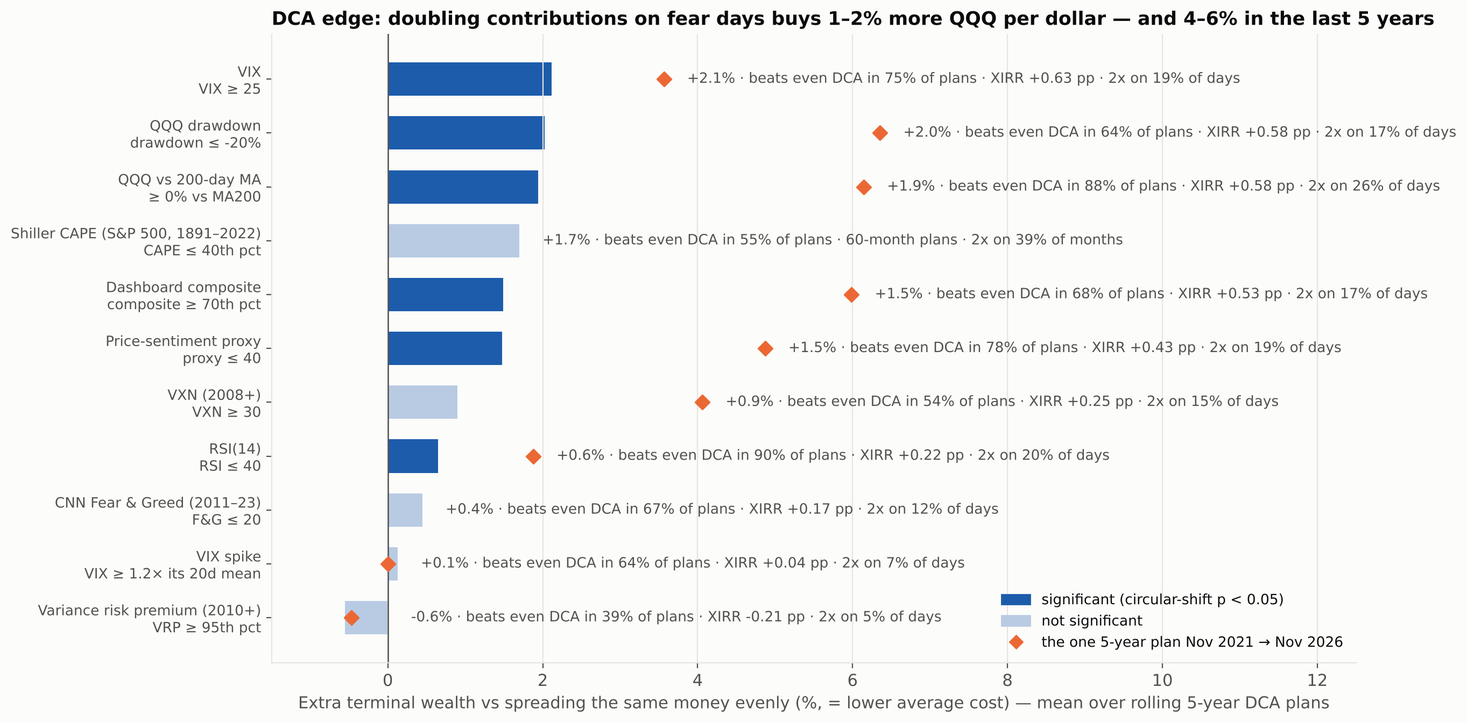
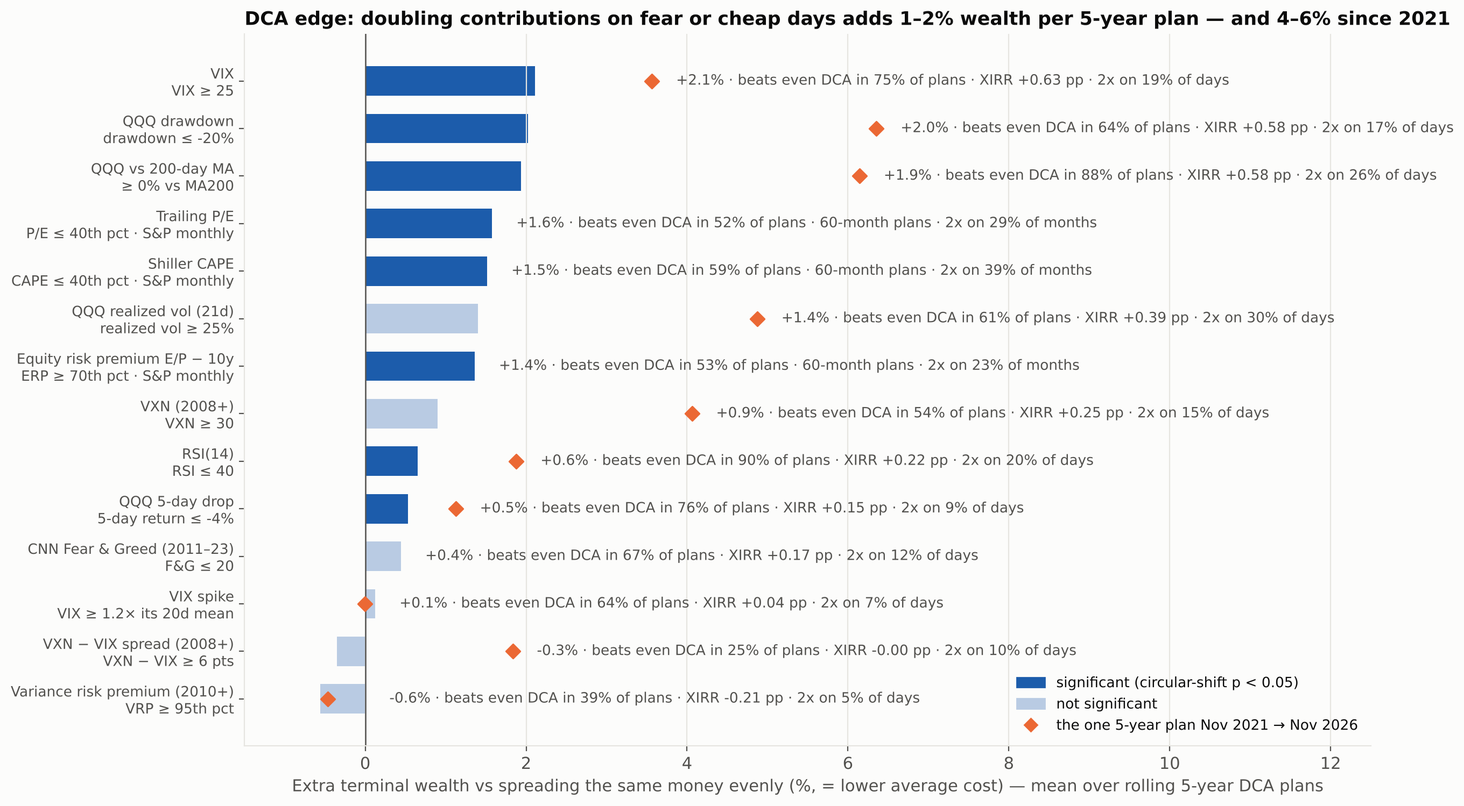
Edge study: single indicators only, add realized vol, 5-day drop, VXN-VIX and S&P valuation
- drop synthesized scores (dashboard composite, price-sentiment proxy) from the edge charts
- add QQQ 21d realized vol, 5-day drop, VXN minus VIX spread
- monthly S&P 500 valuation (Shiller 1881-2023): CAPE, trailing P/E, equity risk
  premium (E/P - 10y); earnings lagged 3 months; DCA via rolling 60-month plans
- deck: updated edge slides and indicator coverage (3 groups)

Claude-Session: https://claude.ai/code/session_01Ka2CYKWpESBGSib6ph7jsU

diff --git a/deck/project/slides/coverage.html b/deck/project/slides/coverage.html
@@ -1,6 +1,6 @@
 <section id="coverage" data-transition="fade" style="background:#FBFBF8;color:#14213D;font-family:Inter, Arial, sans-serif;padding:104px 128px 150px;display:flex;flex-direction:column;gap:36px"><div style="display:flex;flex-direction:column;gap:12px"><p style="font-family:'Space Grotesk', Arial, sans-serif;font-size:24px;font-weight:600;letter-spacing:2px;text-transform:uppercase;color:#1C5CAB">Appendix · indicator coverage</p><h2 style="font-family:'Space Grotesk', Arial, sans-serif;font-size:56px;font-weight:600;line-height:1.1;color:#14213D">Which indicators we can test, and where</h2></div><div style="display:flex;gap:24px">
-<div style="flex:1;display:flex;flex-direction:column;gap:12px;padding:28px;background:#FFFFFF;border:1px solid #DCD9CF;border-top:6px solid #2A78D6;border-radius:12px"><h3 style="font-family:'Space Grotesk', Arial, sans-serif;font-size:32px;font-weight:600;color:#14213D">1 · Tested here</h3><p style="font-size:24px;font-weight:600;color:#1C5CAB">local / GitHub data, done</p><p style="font-size:24px;line-height:1.35;color:#4A5568">VIX, VIX spike (1990+)</p><p style="font-size:24px;line-height:1.35;color:#4A5568">VXN (QC export, 2008+)</p><p style="font-size:24px;line-height:1.35;color:#4A5568">CNN Fear &amp; Greed (archive 2011–23)</p><p style="font-size:24px;line-height:1.35;color:#4A5568">QQQ drawdown, MA200, RSI</p><p style="font-size:24px;line-height:1.35;color:#4A5568">Price-sentiment proxy, VRP</p><p style="font-size:24px;line-height:1.35;color:#4A5568">Dashboard composite</p><p style="font-size:24px;line-height:1.35;color:#4A5568">Shiller CAPE (S&amp;P, 1881+)</p></div>
-<div style="flex:1;display:flex;flex-direction:column;gap:12px;padding:28px;background:#FFFFFF;border:1px solid #DCD9CF;border-top:6px solid #EB6834;border-radius:12px"><h3 style="font-family:'Space Grotesk', Arial, sans-serif;font-size:32px;font-weight:600;color:#14213D">2 · QuantConnect</h3><p style="font-size:24px;font-weight:600;color:#1C5CAB">built-in data or our upload</p><p style="font-size:24px;line-height:1.35;color:#4A5568">CNN Fear &amp; Greed to 2026 (QC dataset)</p><p style="font-size:24px;line-height:1.35;color:#4A5568">VIX9D / VIX3M / VVIX / SKEW</p><p style="font-size:24px;line-height:1.35;color:#4A5568">HY &amp; IG spreads, real 10y, NFCI (FRED)</p><p style="font-size:24px;line-height:1.35;color:#4A5568">Breadth: % NDX above MA200</p><p style="font-size:24px;line-height:1.35;color:#4A5568">Point-in-time P/E, P/S, FCF yield</p><p style="font-size:24px;line-height:1.35;color:#4A5568">Forward-P/E percentile (our file, look-ahead)</p><p style="font-size:24px;line-height:1.35;color:#4A5568">AAII*, put/call, COT, margin debt (upload)</p></div>
+<div style="flex:1;display:flex;flex-direction:column;gap:12px;padding:28px;background:#FFFFFF;border:1px solid #DCD9CF;border-top:6px solid #2A78D6;border-radius:12px"><h3 style="font-family:'Space Grotesk', Arial, sans-serif;font-size:32px;font-weight:600;color:#14213D">1 · Tested here</h3><p style="font-size:24px;font-weight:600;color:#1C5CAB">local / GitHub data, done</p><p style="font-size:24px;line-height:1.35;color:#4A5568">VIX, VIX spike (1990+)</p><p style="font-size:24px;line-height:1.35;color:#4A5568">VXN, VXN − VIX, VRP (2008+)</p><p style="font-size:24px;line-height:1.35;color:#4A5568">CNN Fear &amp; Greed (archive 2011–23)</p><p style="font-size:24px;line-height:1.35;color:#4A5568">QQQ drawdown, MA200, RSI, realized vol, 5-day drop</p><p style="font-size:24px;line-height:1.35;color:#4A5568">S&amp;P CAPE, trailing P/E, E/P − 10y (1881–2023)</p></div>
+<div style="flex:1;display:flex;flex-direction:column;gap:12px;padding:28px;background:#FFFFFF;border:1px solid #DCD9CF;border-top:6px solid #EB6834;border-radius:12px"><h3 style="font-family:'Space Grotesk', Arial, sans-serif;font-size:32px;font-weight:600;color:#14213D">2 · QuantConnect</h3><p style="font-size:24px;font-weight:600;color:#1C5CAB">built-in data or our upload</p><p style="font-size:24px;line-height:1.35;color:#4A5568">CNN Fear &amp; Greed to 2026 (QC dataset)</p><p style="font-size:24px;line-height:1.35;color:#4A5568">VIX9D / VIX3M / VVIX / SKEW (QC CBOE set)</p><p style="font-size:24px;line-height:1.35;color:#4A5568">HY &amp; IG spreads, real 10y, NFCI (FRED)</p><p style="font-size:24px;line-height:1.35;color:#4A5568">Breadth: % NDX above MA200</p><p style="font-size:24px;line-height:1.35;color:#4A5568">Point-in-time NDX P/E, P/S, FCF yield</p><p style="font-size:24px;line-height:1.35;color:#4A5568">Forward-P/E percentile (our file, look-ahead)</p><p style="font-size:24px;line-height:1.35;color:#4A5568">AAII*, put/call**, COT, margin debt (upload)</p></div>
 <div style="flex:1;display:flex;flex-direction:column;gap:12px;padding:28px;background:#FFFFFF;border:1px solid #DCD9CF;border-top:6px solid #6B7280;border-radius:12px"><h3 style="font-family:'Space Grotesk', Arial, sans-serif;font-size:32px;font-weight:600;color:#14213D">3 · Out of reach</h3><p style="font-size:24px;font-weight:600;color:#1C5CAB">paid or never recorded</p><p style="font-size:24px;line-height:1.35;color:#4A5568">Point-in-time consensus forward EPS (I/B/E/S, FactSet)</p><p style="font-size:24px;line-height:1.35;color:#4A5568">BofA Fund Manager Survey</p><p style="font-size:24px;line-height:1.35;color:#4A5568">Investors Intelligence survey</p><p style="font-size:24px;line-height:1.35;color:#4A5568">Citi Economic Surprise, MOVE history</p><p style="font-size:24px;line-height:1.35;color:#4A5568">ETF flow history, social-media sentiment</p><p style="font-size:24px;line-height:1.35;color:#4A5568">CNN Fear &amp; Greed before 2011</p></div>
 </div>
-<p style="font-size:24px;color:#4A5568">* AAII’s full weekly history needs a paid membership; one teammate download is enough to upload it to QC.</p><p style="position:absolute;left:128px;bottom:56px;width:1664px;font-size:24px;color:#6B7280">Math 585 · Midterm · Buying Blood, Not Knives<span style="color:#6B7280">  ·  20</span></p><aside>Speaker: [Member 2]. What we could test today versus what goes to QuantConnect next. Group 2 is the TODO list for the QC research notebook (qc/research_new_indicators.ipynb). Group 3 is out of scope for a student budget; the forward-P/E percentile that our dashboard uses is in group 2 only with a caveat: its history uses realised EPS, so it is not point-in-time.</aside></section>
+<p style="font-size:24px;color:#4A5568">* AAII’s full weekly history needs a paid membership. ** CBOE retired its free put/call history files in 2019; older archives plus the daily page must be stitched.</p><p style="position:absolute;left:128px;bottom:56px;width:1664px;font-size:24px;color:#6B7280">Math 585 · Midterm · Buying Blood, Not Knives<span style="color:#6B7280">  ·  20</span></p><aside>Speaker: [Member 2]. What we could test today versus what goes to QuantConnect next. Group 2 is the TODO list for the QC research notebook (qc/research_new_indicators.ipynb). Group 3 is out of scope for a student budget; the forward-P/E percentile that our dashboard uses is in group 2 only with a caveat: its history uses realised EPS, so it is not point-in-time.</aside></section>

diff --git a/deck/project/slides/edge-trading.html b/deck/project/slides/edge-trading.html
@@ -1,1 +1,1 @@
-<section id="edge-trading" data-transition="fade" style="background:#FBFBF8;color:#14213D;font-family:Inter, Arial, sans-serif;padding:104px 128px 150px;display:flex;flex-direction:column;gap:36px"><div style="display:flex;flex-direction:column;gap:12px"><p style="font-family:'Space Grotesk', Arial, sans-serif;font-size:24px;font-weight:600;letter-spacing:2px;text-transform:uppercase;color:#1C5CAB">Evidence 3 · trading edge by indicator</p><h2 style="font-family:'Space Grotesk', Arial, sans-serif;font-size:56px;font-weight:600;line-height:1.1;color:#14213D">As a trade, only extreme volatility pays: VIX ≥ 40 adds +37 pp over a random day</h2></div><img src="/_blob/PENDING_EDGE_TRADING" alt="Bar chart: next-1-year QQQ return on trigger days minus any day, best parameter per indicator with at least 8 episodes: VIX ≥ 40 +37 pp, VXN ≥ 40 +31 pp, VIX spike +15 pp, price-sentiment proxy +16 pp, composite +14 pp, CAPE +4 pp, CNN F&G +4 pp; RSI, VRP, MA200 and drawdown triggers negative" style="width:1664px;height:690px;object-fit:contain"><p style="position:absolute;left:128px;bottom:56px;width:1664px;font-size:24px;color:#6B7280">Math 585 · Midterm · Buying Blood, Not Knives<span style="color:#6B7280">  ·  7</span></p><aside>Speaker: [Member 2]. Trading edge = buy on every trigger day, hold one year, compare with buying on any day; capital use ignored. For each indicator we tried 4–5 thresholds (e.g. VIX 20/25/30/35/40) and kept the best one that fired in at least 8 separate episodes. Significance: circular-shift test (the trigger series is shifted in time 1,000 times, keeping its clustering). Only extreme-volatility triggers are significant: VIX ≥ 40 (+37 pp, 51% vs 14%), VXN ≥ 40 (+31 pp), VIX 1.5x spike (+15 pp). Price-based triggers (drawdown, MA200, RSI) LOSE over the full history because the 2000–02 bust fired them for three years. Orange diamonds = same rule in the last five years: mostly flat — 2022 fear was followed by more downside — except VIX ≥ 40 (April 2025, +19 pp, one episode). Choosing the best of a grid flatters the edge.</aside></section>
+<section id="edge-trading" data-transition="fade" style="background:#FBFBF8;color:#14213D;font-family:Inter, Arial, sans-serif;padding:104px 128px 150px;display:flex;flex-direction:column;gap:36px"><div style="display:flex;flex-direction:column;gap:12px"><p style="font-family:'Space Grotesk', Arial, sans-serif;font-size:24px;font-weight:600;letter-spacing:2px;text-transform:uppercase;color:#1C5CAB">Evidence 3 · trading edge by indicator</p><h2 style="font-family:'Space Grotesk', Arial, sans-serif;font-size:56px;font-weight:600;line-height:1.1;color:#14213D">As a trade, only extreme volatility and cheap valuation pay; price dips alone do not</h2></div><img src="/_blob/PENDING_EDGE_TRADING" alt="Bar chart: next-1-year return on trigger days minus any day, best threshold per single indicator with at least 8 episodes: VIX ≥ 40 +37 pp, VXN ≥ 40 +31 pp, VIX spike +15 pp, equity risk premium +7.8 pp, trailing P/E +5.2 pp, CAPE +4.8 pp; CNN F&G and VXN−VIX not significant; RSI, VRP, MA200, realized vol, drawdown and 5-day drop negative" style="width:1664px;height:690px;object-fit:contain"><p style="position:absolute;left:128px;bottom:56px;width:1664px;font-size:24px;color:#6B7280">Math 585 · Midterm · Buying Blood, Not Knives<span style="color:#6B7280">  ·  7</span></p><aside>Speaker: [Member 2]. Trading edge = buy on every trigger day, hold one year, compare with buying on any day; capital use ignored. Single indicators only. For each we tried 4–5 thresholds (e.g. VIX 20/25/30/35/40) and kept the best one that fired in at least 8 separate episodes. Significance: circular-shift test (the trigger series is shifted in time 1,000 times, keeping its clustering). Two families work: extreme implied volatility — VIX ≥ 40 (+37 pp, 51% vs 14%), VXN ≥ 40 (+31 pp), VIX 1.5x spike (+15 pp) — and cheap valuation on 140 years of S&P data — equity risk premium in its top 30% (+7.8 pp), trailing P/E in its bottom 40% (+5.2 pp), CAPE bottom 30% (+4.8 pp); earnings lagged 3 months. Price-only triggers (drawdown, MA200, RSI, realized vol, 5-day drop) LOSE over the full history because the 2000–02 bust fired them for three years. Orange diamonds = same rule in the last five years. Choosing the best of a grid flatters the edge.</aside></section>

diff --git a/deck/project/slides/edge-dca.html b/deck/project/slides/edge-dca.html
@@ -1,1 +1,1 @@
-<section id="edge-dca" data-transition="fade" style="background:#FBFBF8;color:#14213D;font-family:Inter, Arial, sans-serif;padding:104px 128px 150px;display:flex;flex-direction:column;gap:36px"><div style="display:flex;flex-direction:column;gap:12px"><p style="font-family:'Space Grotesk', Arial, sans-serif;font-size:24px;font-weight:600;letter-spacing:2px;text-transform:uppercase;color:#1C5CAB">Evidence 4 · DCA edge by indicator</p><h2 style="font-family:'Space Grotesk', Arial, sans-serif;font-size:56px;font-weight:600;line-height:1.1;color:#14213D">For savers, doubling contributions on fear days adds 1.5–2% wealth, and 4–6% since 2021</h2></div><img src="/_blob/PENDING_EDGE_DCA" alt="Bar chart: extra terminal wealth from doubling DCA contributions on trigger days versus spreading the same money evenly, mean over rolling 5-year plans: VIX ≥ 25 +2.1%, drawdown ≤ −20% +2.0%, below MA200 +1.9%, composite +1.5%, proxy +1.5%; last 5-year plan +3.6% to +6.4%" style="width:1664px;height:690px;object-fit:contain"><p style="position:absolute;left:128px;bottom:56px;width:1664px;font-size:24px;color:#6B7280">Math 585 · Midterm · Buying Blood, Not Knives<span style="color:#6B7280">  ·  8</span></p><aside>Speaker: [Member 2]. DCA edge = invest 1 unit a day, 2 units on trigger days, versus spreading the SAME total money evenly. Tested on every 5-year DCA plan starting each month since 1999 (a single 27-year plan would reward moving money into the cheap early 2000s, which is not fear timing). Mild, frequent triggers win here: VIX ≥ 25 (+2.1% more wealth, beats even DCA in 75% of plans, XIRR +0.63 pp), drawdown ≤ −20%, below MA200 (88% of plans). In the last 5-year plan (Nov 2021 → Nov 2026) the gain is +3.6% to +6.4% because 2022 was a long fear year. So: for a saver with monthly cash, almost any fear trigger helps a little and very reliably; for a trader, only the extremes matter.</aside></section>
+<section id="edge-dca" data-transition="fade" style="background:#FBFBF8;color:#14213D;font-family:Inter, Arial, sans-serif;padding:104px 128px 150px;display:flex;flex-direction:column;gap:36px"><div style="display:flex;flex-direction:column;gap:12px"><p style="font-family:'Space Grotesk', Arial, sans-serif;font-size:24px;font-weight:600;letter-spacing:2px;text-transform:uppercase;color:#1C5CAB">Evidence 4 · DCA edge by indicator</p><h2 style="font-family:'Space Grotesk', Arial, sans-serif;font-size:56px;font-weight:600;line-height:1.1;color:#14213D">For savers, doubling contributions on fear days adds about 2% wealth, and 4–6% since 2021</h2></div><img src="/_blob/PENDING_EDGE_DCA" alt="Bar chart: extra terminal wealth from doubling DCA contributions on trigger days versus spreading the same money evenly, mean over rolling 5-year plans: VIX ≥ 25 +2.1%, drawdown ≤ −20% +2.0%, below MA200 +1.9%, trailing P/E +1.6%, CAPE +1.5%, equity risk premium +1.4%; last 5-year plan +3.6% to +6.4%" style="width:1664px;height:690px;object-fit:contain"><p style="position:absolute;left:128px;bottom:56px;width:1664px;font-size:24px;color:#6B7280">Math 585 · Midterm · Buying Blood, Not Knives<span style="color:#6B7280">  ·  8</span></p><aside>Speaker: [Member 2]. DCA edge = invest 1 unit a day (a month for the valuation rows), 2 units on trigger days, versus spreading the SAME total money evenly. Tested on every 5-year DCA plan starting each month since 1999 (S&P valuation rows: every 60-month plan since 1881); a single 27-year plan would reward moving money into the cheap early 2000s, which is not fear timing. Here mild, frequent triggers win: VIX ≥ 25 (+2.1% more wealth, beats even DCA in 75% of plans, XIRR +0.63 pp), drawdown ≤ −20% (+2.0%), below MA200 (+1.9%, 88% of plans). Valuation triggers add +1.4–1.6% on average but win only about half the plans — the gain comes from a few long cheap eras. In the last 5-year plan (Nov 2021 → Nov 2026) the gain is +3.6% to +6.4% because 2022 was a long fear year. So: for a saver, simple fear triggers help a little and reliably; for a trader, only the extremes matter.</aside></section>

diff --git a/tools/build_deck.py b/tools/build_deck.py
@@ -130,14 +130,14 @@ slide("ev-scalein", f'''{img("event", 1664, 640, "Two panels: left, average cumu
       eyebrow="Evidence 2 · design implication", title="The edge is in scaling in through the fear window, not catching day one")
 
 # 6b ─ trading edge per indicator
-slide("edge-trading", f'''{img("edge_tr", 1664, 690, "Bar chart: next-1-year QQQ return on trigger days minus any day, best parameter per indicator with at least 8 episodes: VIX ≥ 40 +37 pp, VXN ≥ 40 +31 pp, VIX spike +15 pp, price-sentiment proxy +16 pp, composite +14 pp, CAPE +4 pp, CNN F&G +4 pp; RSI, VRP, MA200 and drawdown triggers negative")}''',
-      "Speaker: [Member 2]. Trading edge = buy on every trigger day, hold one year, compare with buying on any day; capital use ignored. For each indicator we tried 4–5 thresholds (e.g. VIX 20/25/30/35/40) and kept the best one that fired in at least 8 separate episodes. Significance: circular-shift test (the trigger series is shifted in time 1,000 times, keeping its clustering). Only extreme-volatility triggers are significant: VIX ≥ 40 (+37 pp, 51% vs 14%), VXN ≥ 40 (+31 pp), VIX 1.5x spike (+15 pp). Price-based triggers (drawdown, MA200, RSI) LOSE over the full history because the 2000–02 bust fired them for three years. Orange diamonds = same rule in the last five years: mostly flat — 2022 fear was followed by more downside — except VIX ≥ 40 (April 2025, +19 pp, one episode). Choosing the best of a grid flatters the edge.",
-      eyebrow="Evidence 3 · trading edge by indicator", title="As a trade, only extreme volatility pays: VIX ≥ 40 adds +37 pp over a random day")
+slide("edge-trading", f'''{img("edge_tr", 1664, 690, "Bar chart: next-1-year return on trigger days minus any day, best threshold per single indicator with at least 8 episodes: VIX ≥ 40 +37 pp, VXN ≥ 40 +31 pp, VIX spike +15 pp, equity risk premium +7.8 pp, trailing P/E +5.2 pp, CAPE +4.8 pp; CNN F&G and VXN−VIX not significant; RSI, VRP, MA200, realized vol, drawdown and 5-day drop negative")}''',
+      "Speaker: [Member 2]. Trading edge = buy on every trigger day, hold one year, compare with buying on any day; capital use ignored. Single indicators only. For each we tried 4–5 thresholds (e.g. VIX 20/25/30/35/40) and kept the best one that fired in at least 8 separate episodes. Significance: circular-shift test (the trigger series is shifted in time 1,000 times, keeping its clustering). Two families work: extreme implied volatility — VIX ≥ 40 (+37 pp, 51% vs 14%), VXN ≥ 40 (+31 pp), VIX 1.5x spike (+15 pp) — and cheap valuation on 140 years of S&P data — equity risk premium in its top 30% (+7.8 pp), trailing P/E in its bottom 40% (+5.2 pp), CAPE bottom 30% (+4.8 pp); earnings lagged 3 months. Price-only triggers (drawdown, MA200, RSI, realized vol, 5-day drop) LOSE over the full history because the 2000–02 bust fired them for three years. Orange diamonds = same rule in the last five years. Choosing the best of a grid flatters the edge.",
+      eyebrow="Evidence 3 · trading edge by indicator", title="As a trade, only extreme volatility and cheap valuation pay; price dips alone do not")
 
 # 6c ─ DCA edge per indicator
-slide("edge-dca", f'''{img("edge_dca", 1664, 690, "Bar chart: extra terminal wealth from doubling DCA contributions on trigger days versus spreading the same money evenly, mean over rolling 5-year plans: VIX ≥ 25 +2.1%, drawdown ≤ −20% +2.0%, below MA200 +1.9%, composite +1.5%, proxy +1.5%; last 5-year plan +3.6% to +6.4%")}''',
-      "Speaker: [Member 2]. DCA edge = invest 1 unit a day, 2 units on trigger days, versus spreading the SAME total money evenly. Tested on every 5-year DCA plan starting each month since 1999 (a single 27-year plan would reward moving money into the cheap early 2000s, which is not fear timing). Mild, frequent triggers win here: VIX ≥ 25 (+2.1% more wealth, beats even DCA in 75% of plans, XIRR +0.63 pp), drawdown ≤ −20%, below MA200 (88% of plans). In the last 5-year plan (Nov 2021 → Nov 2026) the gain is +3.6% to +6.4% because 2022 was a long fear year. So: for a saver with monthly cash, almost any fear trigger helps a little and very reliably; for a trader, only the extremes matter.",
-      eyebrow="Evidence 4 · DCA edge by indicator", title="For savers, doubling contributions on fear days adds 1.5–2% wealth, and 4–6% since 2021")
+slide("edge-dca", f'''{img("edge_dca", 1664, 690, "Bar chart: extra terminal wealth from doubling DCA contributions on trigger days versus spreading the same money evenly, mean over rolling 5-year plans: VIX ≥ 25 +2.1%, drawdown ≤ −20% +2.0%, below MA200 +1.9%, trailing P/E +1.6%, CAPE +1.5%, equity risk premium +1.4%; last 5-year plan +3.6% to +6.4%")}''',
+      "Speaker: [Member 2]. DCA edge = invest 1 unit a day (a month for the valuation rows), 2 units on trigger days, versus spreading the SAME total money evenly. Tested on every 5-year DCA plan starting each month since 1999 (S&P valuation rows: every 60-month plan since 1881); a single 27-year plan would reward moving money into the cheap early 2000s, which is not fear timing. Here mild, frequent triggers win: VIX ≥ 25 (+2.1% more wealth, beats even DCA in 75% of plans, XIRR +0.63 pp), drawdown ≤ −20% (+2.0%), below MA200 (+1.9%, 88% of plans). Valuation triggers add +1.4–1.6% on average but win only about half the plans — the gain comes from a few long cheap eras. In the last 5-year plan (Nov 2021 → Nov 2026) the gain is +3.6% to +6.4% because 2022 was a long fear year. So: for a saver, simple fear triggers help a little and reliably; for a trader, only the extremes matter.",
+      eyebrow="Evidence 4 · DCA edge by indicator", title="For savers, doubling contributions on fear days adds about 2% wealth, and 4–6% since 2021")
 
 # 7 ─ regimes + CAPE
 slide("ev-regimes", f'''<div style="display:flex;gap:32px;align-items:start">
@@ -280,11 +280,11 @@ def col3(title, sub, items, accent):
             f'<h3 style="font-family:{HEAD};font-size:32px;font-weight:600;color:{DARK}">{title}</h3>'
             f'<p style="font-size:24px;font-weight:600;color:{BLUE_D}">{sub}</p>{li}</div>')
 slide("coverage", f'''<div style="display:flex;gap:24px">
-{col3("1 · Tested here", "local / GitHub data, done", ["VIX, VIX spike (1990+)", "VXN (QC export, 2008+)", "CNN Fear &amp; Greed (archive 2011–23)", "QQQ drawdown, MA200, RSI", "Price-sentiment proxy, VRP", "Dashboard composite", "Shiller CAPE (S&amp;P, 1881+)"], BLUE)}
-{col3("2 · QuantConnect", "built-in data or our upload", ["CNN Fear &amp; Greed to 2026 (QC dataset)", "VIX9D / VIX3M / VVIX / SKEW", "HY &amp; IG spreads, real 10y, NFCI (FRED)", "Breadth: % NDX above MA200", "Point-in-time P/E, P/S, FCF yield", "Forward-P/E percentile (our file, look-ahead)", "AAII*, put/call, COT, margin debt (upload)"], ORANGE)}
+{col3("1 · Tested here", "local / GitHub data, done", ["VIX, VIX spike (1990+)", "VXN, VXN − VIX, VRP (2008+)", "CNN Fear &amp; Greed (archive 2011–23)", "QQQ drawdown, MA200, RSI, realized vol, 5-day drop", "S&amp;P CAPE, trailing P/E, E/P − 10y (1881–2023)"], BLUE)}
+{col3("2 · QuantConnect", "built-in data or our upload", ["CNN Fear &amp; Greed to 2026 (QC dataset)", "VIX9D / VIX3M / VVIX / SKEW (QC CBOE set)", "HY &amp; IG spreads, real 10y, NFCI (FRED)", "Breadth: % NDX above MA200", "Point-in-time NDX P/E, P/S, FCF yield", "Forward-P/E percentile (our file, look-ahead)", "AAII*, put/call**, COT, margin debt (upload)"], ORANGE)}
 {col3("3 · Out of reach", "paid or never recorded", ["Point-in-time consensus forward EPS (I/B/E/S, FactSet)", "BofA Fund Manager Survey", "Investors Intelligence survey", "Citi Economic Surprise, MOVE history", "ETF flow history, social-media sentiment", "CNN Fear &amp; Greed before 2011"], "#6B7280")}
 </div>
-<p style="font-size:24px;color:{INK2}">* AAII’s full weekly history needs a paid membership; one teammate download is enough to upload it to QC.</p>''',
+<p style="font-size:24px;color:{INK2}">* AAII’s full weekly history needs a paid membership. ** CBOE retired its free put/call history files in 2019; older archives plus the daily page must be stitched.</p>''',
       "Speaker: [Member 2]. What we could test today versus what goes to QuantConnect next. Group 2 is the TODO list for the QC research notebook (qc/research_new_indicators.ipynb). Group 3 is out of scope for a student budget; the forward-P/E percentile that our dashboard uses is in group 2 only with a caveat: its history uses realised EPS, so it is not point-in-time.",
       eyebrow="Appendix · indicator coverage", title="Which indicators we can test, and where")
 

diff --git a/research/edge_study.py b/research/edge_study.py
@@ -61,17 +61,20 @@ def build_indicators(P):
     fgi = P["fgi"]
     proxy = 100 - S["Price-sentiment proxy (inv.)"]
     spike = vix / vix.rolling(20).mean()
-    # name: (series, op, grid, label-format, start)
+    r5 = (px / px.shift(5) - 1) * 100
+    spread = vxn - vix.where(vxn.notna())
+    # name: (series, op, grid, label-format) — single, directly observed indicators only
     I["VIX level"] = (vix, ">=", [20, 25, 30, 35, 40], "VIX ≥ {}")
     I["VIX spike vs 20d avg"] = (spike, ">=", [1.2, 1.3, 1.4, 1.5], "VIX ≥ {}× its 20d mean")
     I["VXN level"] = (vxn, ">=", [25, 30, 35, 40, 45], "VXN ≥ {}")
+    I["VXN minus VIX"] = (spread, ">=", [3, 4, 5, 6, 8], "VXN − VIX ≥ {} pts")
     I["CNN Fear & Greed"] = (fgi, "<=", [10, 15, 20, 25, 30], "F&G ≤ {}")
+    I["QQQ realized vol (21d)"] = (rv, ">=", [25, 30, 40, 50, 60], "realized vol ≥ {}%")
+    I["QQQ 5-day drop"] = (r5, "<=", [-4, -6, -8, -10, -12], "5-day return ≤ {}%")
     I["QQQ drawdown from 1y high"] = (dd * 100, "<=", [-10, -15, -20, -25, -30], "drawdown ≤ {}%")
     I["QQQ below 200-day MA"] = (ma * 100, "<=", [0, -5, -10, -15], "≥ {}% vs MA200")
     I["RSI(14) oversold"] = (rsi, "<=", [25, 30, 35, 40], "RSI ≤ {}")
-    I["Price-sentiment proxy"] = (proxy, "<=", [15, 20, 30, 40], "proxy ≤ {}")
     I["Variance risk premium (pct)"] = (vrp_pct * 100, ">=", [70, 80, 90, 95], "VRP ≥ {}th pct")
-    I["Dashboard composite (pct)"] = (comp_pct * 100, ">=", [70, 80, 90, 95], "composite ≥ {}th pct")
     return I
 
 
@@ -208,39 +211,58 @@ def evaluate(name, spec, P, px, sample_start, min_ep, fixed_thr=None):
     return G, bt, bd
 
 
-def cape_study():
-    """Monthly S&P 500 (Shiller, real total return 1881-2023): CAPE expanding-percentile trigger.
-    Trading edge = next-12-month return; DCA = rolling 60-month plans, 2x when triggered."""
+LAG_EARN = 3   # months: Shiller earnings are published with a lag
+
+
+def valuation_study():
+    """Monthly S&P 500 (Shiller, real total return): valuation triggers on causal
+    expanding percentiles. Earnings-based inputs lagged LAG_EARN months.
+    Trading edge = next-12-month return vs any month; DCA = rolling 60-month plans, 2x when triggered."""
     from common import ROOT
     sh = pd.read_csv(ROOT / "data/raw/shiller_sp500_monthly.csv", parse_dates=["Date"]).set_index("Date")
-    sh = sh[sh["PE10"] > 0]
+    sh = sh.loc[: "2023-06-01"]
     rp = sh["Real Price"]
     tr = (1 + (rp.pct_change() + sh["Real Dividend"] / 12 / rp.shift())).cumprod()
-    pct = sh["PE10"].expanding(120).rank(pct=True) * 100
+    E = sh["Earnings"].where(sh["Earnings"] > 0).shift(LAG_EARN)
+    cape = sh["PE10"].where(sh["PE10"] > 0).shift(LAG_EARN)
+    pe = (sh["SP500"] / E)
+    erp = 100 * E / sh["SP500"] - sh["Long Interest Rate"]           # earnings yield − 10y yield (Fed model)
+    pctl = lambda x: x.expanding(120).rank(pct=True) * 100
+    specs = {"Shiller CAPE": (pctl(cape), "<=", [10, 20, 30, 40], "CAPE ≤ {}th pct"),
+             "Trailing P/E": (pctl(pe), "<=", [10, 20, 30, 40], "P/E ≤ {}th pct"),
+             "Equity risk premium (E/P − 10y)": (pctl(erp), ">=", [60, 70, 80, 90], "ERP ≥ {}th pct")}
     fwd = tr.shift(-13) / tr.shift(-1) - 1
     pnext = tr.shift(-1)
     rows = []
-    for thr in [10, 20, 30, 40]:
-        m = (pct <= thr) & pct.notna()
-        v = pct.notna() & fwd.notna()
-        idx = np.flatnonzero(m[v].values)
-        ep = 0 if len(idx) == 0 else int(1 + (np.diff(idx) > 1).sum())
-        e = fwd[v][m[v]].mean() - fwd[v].mean()
-        vd = pct.notna() & pnext.notna()
-        mm, pv = m[vd].values, pnext[vd].values
-        w = np.where(mm, 2.0, 1.0)
-        cw, cwp, cip = [np.concatenate([[0], np.cumsum(a)]) for a in (w, w / pv, 1 / pv)]
-        st = np.arange(0, len(pv) - 60 + 1); en = st + 60
-        adv = (cwp[en] - cwp[st]) / ((cw[en] - cw[st]) / 60 * (cip[en] - cip[st])) - 1
-        # shift test for trading edge
-        f = fwd[v].values; mv = m[v].values; cnt = 0
-        for _ in range(N_SHIFT):
-            k = rng.integers(12, len(mv) - 12); r_ = np.roll(mv, k)
-            cnt += (f[r_].mean() - f.mean()) >= e
-        rows.append(dict(indicator="Shiller CAPE (S&P 500, monthly)", param=f"CAPE ≤ {thr}th pct", thr=thr,
-                         episodes=ep, trig_share=float(m[vd].mean()), edge_12m=e, p_shift=(cnt + 1) / (N_SHIFT + 1),
-                         dca_adv=adv.mean(), dca_win=(adv > 0).mean(), start=pct[v].index[0].date(),
-                         end=fwd[v].index[-1].date()))
+    for name, (x, op, grid, fmt) in specs.items():
+        for thr in grid:
+            m = ((x >= thr) if op == ">=" else (x <= thr)) & x.notna()
+            v = x.notna() & fwd.notna()
+            idx = np.flatnonzero(m[v].values)
+            ep = 0 if len(idx) == 0 else int(1 + (np.diff(idx) > 1).sum())
+            e = fwd[v][m[v]].mean() - fwd[v].mean()
+            vd = x.notna() & pnext.notna()
+            mm, pv = m[vd].values, pnext[vd].values
+            w = np.where(mm, 2.0, 1.0)
+            cw, cwp, cip = [np.concatenate([[0], np.cumsum(a_)]) for a_ in (w, w / pv, 1 / pv)]
+            st = np.arange(0, len(pv) - 60 + 1); en = st + 60
+            adv = (cwp[en] - cwp[st]) / ((cw[en] - cw[st]) / 60 * (cip[en] - cip[st])) - 1
+            f = fwd[v].values; mv = m[v].values; cnt = 0
+            for _ in range(N_SHIFT):
+                k = rng.integers(12, len(mv) - 12); r_ = np.roll(mv, k)
+                cnt += (f[r_].mean() - f.mean()) >= e
+            # DCA shift test
+            cntd = 0
+            for _ in range(N_SHIFT):
+                k = rng.integers(12, len(mm) - 12); w2 = np.where(np.roll(mm, k), 2.0, 1.0)
+                c2, c2p = np.concatenate([[0], np.cumsum(w2)]), np.concatenate([[0], np.cumsum(w2 / pv)])
+                a2 = (c2p[en] - c2p[st]) / ((c2[en] - c2[st]) / 60 * (cip[en] - cip[st])) - 1
+                cntd += a2.mean() >= adv.mean()
+            rows.append(dict(indicator=name, param=fmt.format(thr), thr=thr, episodes=ep,
+                             trig_share=float(m[vd].mean()), edge_12m=e, mean_trig_12m=fwd[v][m[v]].mean(),
+                             mean_all_12m=fwd[v].mean(), p_shift=(cnt + 1) / (N_SHIFT + 1),
+                             dca_adv=adv.mean(), dca_win=(adv > 0).mean(), p_shift_dca=(cntd + 1) / (N_SHIFT + 1),
+                             start=x[v].index[0].date(), end=fwd[v].index[-1].date()))
     return pd.DataFrame(rows)
 
 
@@ -262,8 +284,8 @@ def main():
     T, D = pd.DataFrame(T), pd.DataFrame(D)
     T.to_csv(RES / "edge_trading.csv", index=False)
     D.to_csv(RES / "edge_dca.csv", index=False)
-    cape = cape_study()
-    cape.to_csv(RES / "edge_cape.csv", index=False)
+    cape = valuation_study()
+    cape.to_csv(RES / "edge_valuation.csv", index=False)
     pd.set_option("display.width", 250)
     cols = ["indicator", "sample", "param", "episodes", "trig_days", "edge_252", "mean_trig_252", "mean_all_252", "edge_63", "p_shift", "start", "end"]
     print(T[cols].round(3).to_string())

diff --git a/research/edge_figs.py b/research/edge_figs.py
@@ -6,15 +6,16 @@ from common import BLUE, GRID, INK, INK2, MUTED, ORANGE, RES, SEQ5, plt, savefig
 
 T = pd.read_csv(RES / "edge_trading.csv")
 D = pd.read_csv(RES / "edge_dca.csv")
-C = pd.read_csv(RES / "edge_cape.csv")
+C = pd.read_csv(RES / "edge_valuation.csv")
+MONTHLY = "S&P 500 monthly, 1881–2022"
 SIG = SEQ5[3]
 NS = "#b9cbe3"
 
 SHORT = {"VIX level": "VIX", "VIX spike vs 20d avg": "VIX spike", "VXN level": "VXN (2008+)",
          "CNN Fear & Greed": "CNN Fear & Greed (2011–23)", "QQQ drawdown from 1y high": "QQQ drawdown",
          "QQQ below 200-day MA": "QQQ vs 200-day MA", "RSI(14) oversold": "RSI(14)",
-         "Price-sentiment proxy": "Price-sentiment proxy", "Variance risk premium (pct)": "Variance risk premium (2010+)",
-         "Dashboard composite (pct)": "Dashboard composite"}
+         "Variance risk premium (pct)": "Variance risk premium (2010+)", "VXN minus VIX": "VXN − VIX spread (2008+)",
+         "QQQ realized vol (21d)": "QQQ realized vol (21d)", "QQQ 5-day drop": "QQQ 5-day drop"}
 
 
 def label_of(r):
@@ -24,7 +25,6 @@ def label_of(r):
 # ---------------- (1) trading edge ----------------
 full = T[T["sample"] == "full"].set_index("indicator")
 five = T[T["sample"] == "5y"].set_index("indicator")
-cb = C[C.episodes >= 8].sort_values("edge_12m").iloc[-1]
 rows = []
 for ind, r in full.iterrows():
     f5 = five.loc[ind] if ind in five.index else None
@@ -32,29 +32,32 @@ for ind, r in full.iterrows():
                      trig=r.mean_trig_252 * 100, base=r.mean_all_252 * 100,
                      e5=(f5.edge_252 * 100 if f5 is not None and f5.trig_days > 0 else np.nan),
                      ep5=(int(f5.episodes) if f5 is not None and not np.isnan(f5.episodes) else 0)))
-rows.append(dict(label=f"Shiller CAPE (S&P 500, 1891–2022)\n{cb.param}", edge=cb.edge_12m * 100, p=cb.p_shift,
-                 ep=int(cb.episodes), trig=np.nan, base=np.nan, e5=np.nan, ep5=0))
+for ind, g in C[C.episodes >= 8].groupby("indicator", sort=False):
+    cb = g.loc[g.edge_12m.idxmax()]
+    rows.append(dict(label=f"{ind.replace('Equity risk premium (E/P − 10y)', 'Equity risk premium E/P − 10y')}\n{cb.param} · S&P monthly", edge=cb.edge_12m * 100, p=cb.p_shift, ep=int(cb.episodes),
+                     trig=cb.mean_trig_12m * 100, base=cb.mean_all_12m * 100, e5=np.nan, ep5=0, monthly=True))
 R = pd.DataFrame(rows).sort_values("edge")
-fig, ax = plt.subplots(figsize=(13, 7.6))
+fig, ax = plt.subplots(figsize=(13.5, 8.6))
 y = np.arange(len(R))
 ax.barh(y, R.edge, color=[SIG if p < 0.05 else NS for p in R.p], height=0.62)
 ax.scatter(R.e5, y, marker="D", s=46, color=ORANGE, zorder=3, label="Same rule, last 5 years (2021-11 → 2025-11 entries)")
 for yy, (_, r) in zip(y, R.iterrows()):
     x = np.nanmax([r.edge, 0, r.e5]) + 2.0
-    tail = f"   ({r.trig:.0f}% vs {r.base:.0f}% any day)" if not np.isnan(r.trig) else "   (S&P real, 12-month)"
+    tail = (f"   ({r.trig:.0f}% vs {r.base:.0f}% any month, S&P 1881–2022)" if r.get("monthly") is True
+            else f"   ({r.trig:.0f}% vs {r.base:.0f}% any day)")
     ax.text(x, yy, f"{r.edge:+.1f} pp · p={r.p:.3f} · {r.ep} episodes{tail}",
             va="center", fontsize=9.5, color=INK2)
 ax.set_yticks(y, R.label, fontsize=9.5)
 ax.axvline(0, color=INK2, lw=0.9)
-ax.set_xlim(min(-12, R.edge.min() - 3, np.nanmin(R.e5) - 3), 82)
-ax.set_xlabel("Next-1-year QQQ return when bought on trigger days MINUS when bought on any day (percentage points)")
+ax.set_xlim(min(-12, R.edge.min() - 3, np.nanmin(R.e5) - 3), 66)
+ax.set_xlabel("Next-1-year return when bought on trigger days MINUS when bought on any day (pp) — QQQ daily; valuation rows: S&P 500 monthly")
 ax.grid(axis="y", visible=False)
 from matplotlib.patches import Patch
 from matplotlib.lines import Line2D
 ax.legend(handles=[Patch(color=SIG, label="significant (circular-shift p < 0.05)"), Patch(color=NS, label="not significant"),
                    Line2D([], [], marker="D", color=ORANGE, lw=0, label="same rule, last 5 years")],
           loc="lower right", fontsize=9.5)
-ax.set_title("Trading edge: only extreme volatility triggers beat buying on a random day (QQQ, longest history)",
+ax.set_title("Trading edge: extreme volatility and cheap valuation beat buying on a random day; price-only triggers do not",
              loc="left", fontsize=12.5)
 savefig(fig, "fig_edge_trading.png")
 
@@ -67,11 +70,12 @@ for ind, r in fullD.iterrows():
     rows.append(dict(label=label_of(r), adv=r.dca_adv * 100, win=r.dca_win, xd=r.xirr_diff * 100, xw=r.xirr_win,
                      p=r.p_shift, share=r.trig_share, n=int(r.n_windows),
                      a5=(f5.dca_adv * 100 if f5 is not None and not np.isnan(f5.dca_adv) else np.nan)))
-cbd = C.sort_values("dca_adv").iloc[-1]
-rows.append(dict(label=f"Shiller CAPE (S&P 500, 1891–2022)\n{cbd.param}", adv=cbd.dca_adv * 100, win=cbd.dca_win,
-                 xd=np.nan, xw=np.nan, p=np.nan, share=cbd.trig_share, n=0, a5=np.nan))
+for ind, g in C[C.episodes >= 8].groupby("indicator", sort=False):
+    cbd = g.loc[g.dca_adv.idxmax()]
+    rows.append(dict(label=f"{ind.replace('Equity risk premium (E/P − 10y)', 'Equity risk premium E/P − 10y')}\n{cbd.param} · S&P monthly", adv=cbd.dca_adv * 100, win=cbd.dca_win,
+                     xd=np.nan, xw=np.nan, p=cbd.p_shift_dca, share=cbd.trig_share, n=0, a5=np.nan))
 R = pd.DataFrame(rows).sort_values("adv")
-fig, ax = plt.subplots(figsize=(13, 7.6))
+fig, ax = plt.subplots(figsize=(13.5, 8.6))
 y = np.arange(len(R))
 ax.barh(y, R.adv, color=[SIG if (p < 0.05) else NS for p in R.p.fillna(1)], height=0.62)
 ax.scatter(R.a5, y, marker="D", s=46, color=ORANGE, zorder=3)
@@ -88,7 +92,7 @@ ax.grid(axis="y", visible=False)
 ax.legend(handles=[Patch(color=SIG, label="significant (circular-shift p < 0.05)"), Patch(color=NS, label="not significant"),
                    Line2D([], [], marker="D", color=ORANGE, lw=0, label="the one 5-year plan Nov 2021 → Nov 2026")],
           loc="lower right", fontsize=9.5)
-ax.set_title("DCA edge: doubling contributions on fear days buys 1–2% more QQQ per dollar — and 4–6% in the last 5 years",
+ax.set_title("DCA edge: doubling contributions on fear or cheap days adds 1–2% wealth per 5-year plan — and 4–6% since 2021",
              loc="left", fontsize=12.5)
 savefig(fig, "fig_edge_dca.png")
 print("ok")

diff --git a/README.md b/README.md
@@ -15,16 +15,20 @@ through 2x leverage — when fear is extreme, then rebuild the powder when greed
 This converts sentiment-weighted DCA (which needs fresh cash every month) into a
 fixed-capital strategy whose capital recycles.
 
-## Edge per indicator (research/edge_study.py)
+## Edge per indicator (research/edge_study.py) — single indicators only
 | Indicator (best rule, ≥8 episodes) | Trading: next-1y vs any day | 2x-DCA: extra wealth, rolling 5y plans |
 |---|---|---|
 | VIX | ≥40: **+37 pp** (p=0.001) | ≥25: **+2.1%**, 75% of plans, XIRR +0.63 pp |
 | VXN (2008+) | ≥40: **+31 pp** (p=0.001) | ≥30: +0.9% (n.s.) |
 | VIX spike vs 20d mean | ≥1.5×: **+15 pp** (p=0.005) | ≈0 |
+| Equity risk premium E/P − 10y (S&P monthly 1881–2022) | ≥70th pct: **+7.8 pp** 12m (p=0.001) | +1.4%, 53% of 60-month plans |
+| Trailing P/E (S&P monthly) | ≤40th pct: **+5.2 pp** (p=0.02) | +1.6%, 52% of plans |
+| Shiller CAPE (S&P monthly) | ≤30th pct: **+4.8 pp** (p=0.015) | +1.5%, 59% of plans |
+| CNN Fear & Greed (2011–23) | ≤10: +3.8 pp (n.s.) | ≤20: +0.4% (n.s.) |
 | QQQ drawdown / below MA200 | negative over full history (2000–02) | ≤−20%: **+2.0%**; <MA200: **+1.9%**, 88% of plans |
-| Dashboard composite | ≥95th pct: +14 pp (n.s.) | ≥70th pct: **+1.5%** |
-| CNN Fear & Greed (2011–23) | ≤10: +4 pp (n.s.) | ≤20: +0.4% |
-| Shiller CAPE (S&P, monthly) | ≤40th pct: **+4.3 pp** 12m (p=0.015) | ≤40th pct: +1.7% (60-month plans) |
+| RSI, realized vol, 5-day drop, VRP, VXN−VIX | none significant / negative | RSI ≤40 +0.6%, 5-day ≤−4% +0.5%, RV ≥25% +1.4% (n.s.) |
+
+Earnings-based valuation inputs are lagged 3 months. Synthesized scores (dashboard composite, price-sentiment proxy) are excluded from this table.
 
 ## Results so far (local, synthetic leveraged ETFs calibrated to real TQQQ)
 
